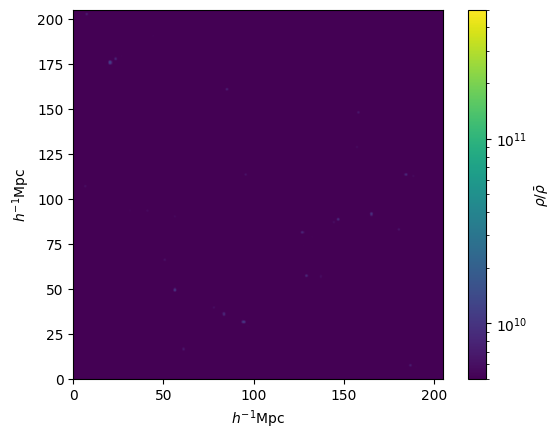
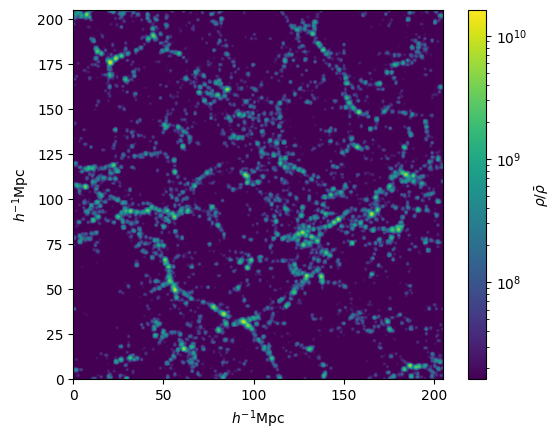
Second test at Mstar 256

diff --git a/genimage_field_stellar.py b/genimage_field_stellar.py
@@ -21,8 +21,8 @@ offset = 0.
 slicew = 20.
 scale = 'log'
 cmap = 'viridis'
-min_overdensity = 0.5
-max_overdensity = 50.0
+min_overdensity = 0.1
+max_overdensity = 100.
 
 print("Importing data...")
 
@@ -40,11 +40,13 @@ indices[axnum] = slice(start, end)
 indices = tuple(indices)
 overdensity = overdensity[indices].sum(axis=axnum)/(end-start) # 2D overdensity (IDK WHY NORMLIZATION LIKE THAT)
 overdensity = np.transpose(overdensity)
-#print(np.max(overdensity), np.min(overdensity), np.mean(overdensity))
+print(np.max(overdensity), np.min(overdensity), np.mean(overdensity))
 
 overdensity *= 1e10
-min_overdensity *= 1e10
-max_overdensity *= 1e10
+#min_overdensity *= 1e10
+#max_overdensity *= 1e10
+max_overdensity = np.max(overdensity)
+min_overdensity = max_overdensity/1000.
 print("Overdensity generated, creating figure...")
 
 fig = plt.figure()

diff --git a/genimage_stellar.py b/genimage_stellar.py
@@ -29,12 +29,13 @@ cmap            = 'viridis'
 dx, x, dy, y, overdensity = PL.density_field_2D(snapshot, x_min, x_max, y_min, y_max,
                                                 z_min, z_max, grid, ptypes, plane, MAS, save_df)
 
+print(np.max(overdensity), np.min(overdensity), np.mean(overdensity))
 overdensity *= 1e10
 min_overdensity *= 1e10
 max_overdensity *= 1e10
 # plot density field
 print('\nCreating the figure...')
-fig = figure()    #create the figure
+"""fig = figure()    #create the figure
 ax1 = fig.add_subplot(111)
 
 ax1.set_xlim([x, x+dx])  #set the range for the x-axis
@@ -60,4 +61,4 @@ else:
 cbar = fig.colorbar(cax)
 cbar.set_label(r"$\rho/\bar{\rho}$",fontsize=10)
 savefig(fout, bbox_inches='tight')
-close(fig)
+close(fig)"""
